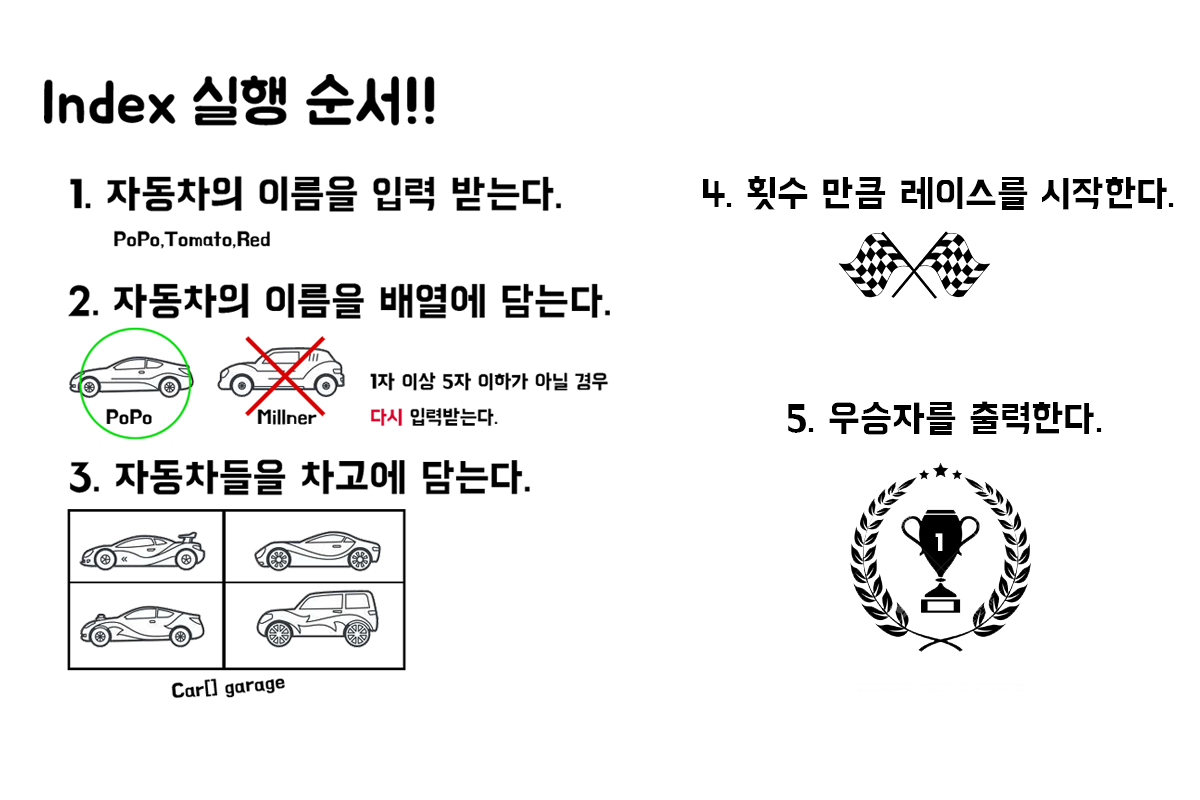
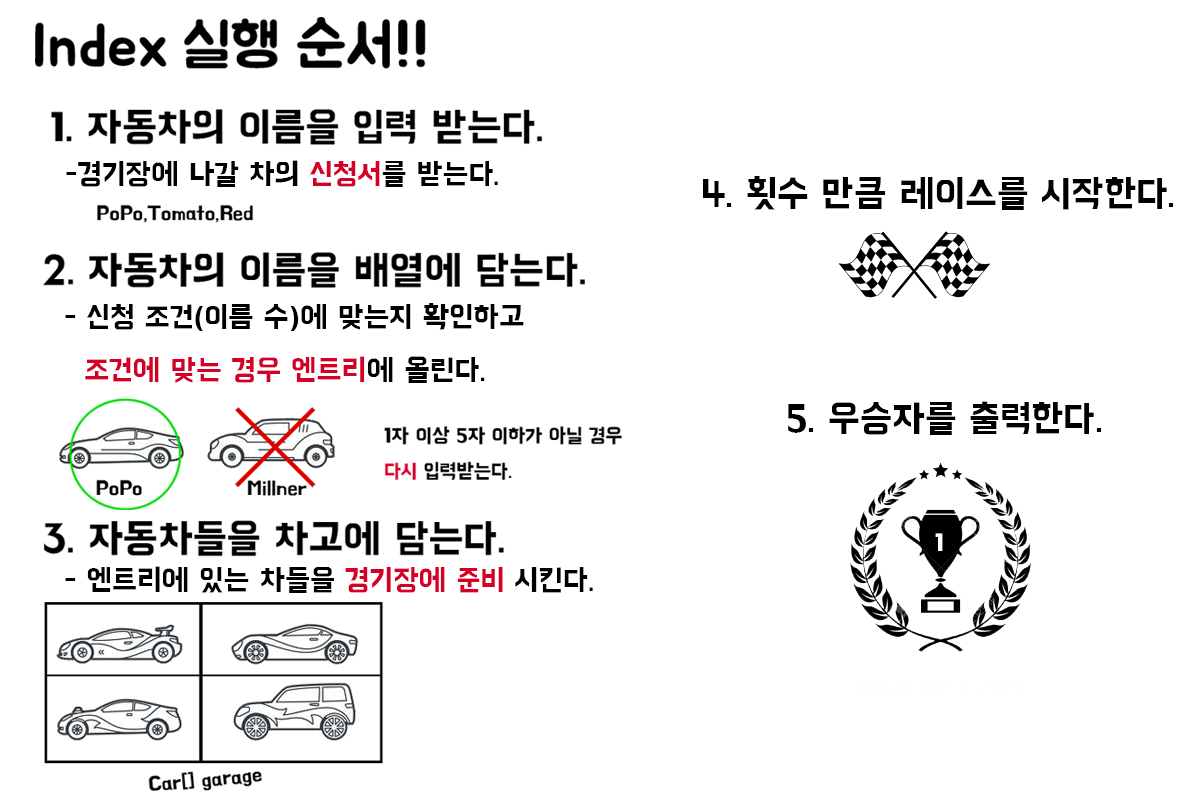
Write Index Remark & Refactoring Config & Update ReadMe

Changed region(s): [[0.0308, 0.0, 0.5242, 1.0]]

diff --git a/src/test/java/ConfigTest.java b/src/test/java/ConfigTest.java
@@ -6,6 +6,7 @@ import org.junit.Test;
 
 import java.util.regex.Pattern;
 
+import static org.junit.Assert.assertArrayEquals;
 import static org.junit.Assert.assertEquals;
 
 public class ConfigTest {
@@ -16,11 +17,10 @@ public class ConfigTest {
         config = new Config();
     }
 
-
     @Test
-    public void makeArrayByStringTest() {
-        String[] result = config.makeArrayByString("Tommi,Pride,Cago");
-        assertEquals(new String[]{"Tommi", "Pride", "Cago"}, result);
+    public void characterMultipleTest() {
+        String result = config.characterMultiple('-', 5);
+        assertEquals("-----", result);
     }
 
     @Test
@@ -34,6 +34,39 @@ public class ConfigTest {
         assertEquals(resultTrue, Boolean.TRUE);
         assertEquals(resultFalse, Boolean.FALSE);
         assertEquals(resultFalseSpace, Boolean.FALSE);
+    }
+
+    @Test
+    public void divideCarNameArrayTest() {
+        String name = "Tom,Tim,Tommy,Tammy,Timon";
+        String[] nameArray = {"Tom", "Tim", "Tommy", "Tammy", "Timon"};
+        String[] result = config.divideCarNameArray(name);
+        assertArrayEquals(nameArray, result);
+        /** 블랭크가 있을시 출력문이 있어 테스트 불가능 */
+//        String nameMiddleBlank = "Tom,,Tommy,Tammy,Timon";
+//        String[] nameArrayMiddleBlank = {"Tom","","Tommy","Tammy","Timon"};
+//        String[] resultMiddleBlank = config.divideCarNameArray(nameMiddleBlank);
+//        assertArrayEquals(nameArrayMiddleBlank,resultMiddleBlank);
+    }
+
+    @Test
+    public void findMaxPositionTest() {
+        Car[] garage = {new Car("Tommi"), new Car("monster")};
+        garage[0].movePosition();
+        garage[0].movePosition();
+        garage[0].movePosition();
+        int result = config.findMaxPosition(garage);
+        assertEquals(3, result);
+    }
+
+    @Test
+    public void makeArrayByStringTest() {
+        String[] trueResult = config.makeArrayByString("Tommi,Pride,Cago");
+        String[] falseResult = config.makeArrayByString("Tommi,Pride,Jimmi");
+        String[] falseResultLength = config.makeArrayByString("Tommi,Pride");
+        assertArrayEquals(new String[]{"Tommi", "Pride", "Cago"}, trueResult);
+//        assertEquals(new String[]{"Tommi", "Pride","Cago"}, falseResult);
+//        assertEquals(new String[]{"Tommi", "Pride","Cago"},falseResultLength);
     }
 
     @Test
@@ -58,13 +91,6 @@ public class ConfigTest {
         assertEquals(false, resultFalse);
     }
 
-    @Test
-    public void raceTest() {
-        Car[] garage = config.makeGarage(new String[]{"Tommi", "Pride", "Cago"});
-        for (int i = 0; i < 5; i++) {
-            config.race(garage);
-        }
-    }
 
     @Test
     public void printWinnerTest() {
@@ -78,12 +104,6 @@ public class ConfigTest {
         garage[1].movePosition();
         String otherResult = config.printWinner(garage);
         assertEquals("Tommi,Pride,Cago", otherResult);
-    }
-
-    @Test
-    public void characterMultipleTest() {
-        String result = config.characterMultiple('-', 5);
-        assertEquals("-----", result);
     }
 
 

diff --git a/src/main/java/domain/Config.java b/src/main/java/domain/Config.java
@@ -56,11 +56,6 @@ public class Config {
         return carsArray;
     }
 
-    public String[] makeArrayByString(String name) {
-        String[] nameArray = name.split(",");
-        return nameArray;
-    }
-
     public String[] divideCarNameArray(String name) {
         String cars = name;
         String[] carsArray = makeArrayByString(cars);
@@ -68,11 +63,29 @@ public class Config {
         return carsArray;
     }
 
+    public Car[] decideMoveForward(Car[] garage) {
+        int random;
+        for (int i = 0; i < garage.length; i++) {
+            random = makeRandom();
+            if (random > 4) {
+                garage[i].movePosition();
+            }
+            printRaceRelay(garage, i);
+        }
+        System.out.println("");
+        return garage;
+    }
+
+    public String[] makeArrayByString(String name) {
+        String[] nameArray = name.split(",");
+        return nameArray;
+    }
+
     /**
      * Garage는 차고로써 Car의 인스턴스들을 담는다.
      *
      * @param carArrays
-     * @return Car인스턴스를 담은 배열
+     * @return garage Car인스턴스를 담은 배열
      */
     public Car[] makeGarage(String[] carArrays) {
         int length = carArrays.length;
@@ -92,8 +105,8 @@ public class Config {
     /**
      * 자동차 레이스 시에 경기 상황을 중계(출력)한다.
      *
-     * @param garage
-     * @param i
+     * @param garage Car를 담은 배열
+     * @param i      garage의 인덱스
      */
     public void printRaceRelay(Car[] garage, int i) {
         String counter = characterMultiple('-', garage[i].getPosition());
@@ -111,19 +124,6 @@ public class Config {
         winner = winner.substring(0, winner.length() - 1);
         System.out.println(winner + "님이 최종 우승하셨습니다!");
         return winner;
-    }
-
-    public Car[] decideMoveForward(Car[] garage) {
-        int random;
-        for (int i = 0; i < garage.length; i++) {
-            random = makeRandom();
-            if (random > 4) {
-                garage[i].movePosition();
-            }
-            printRaceRelay(garage, i);
-        }
-        System.out.println("");
-        return garage;
     }
 
     public void race(Car[] garage) {

diff --git a/src/main/java/service/Index.java b/src/main/java/service/Index.java
@@ -3,12 +3,12 @@ package service;
 import domain.Car;
 import domain.Config;
 
-import java.util.Scanner;
-
+/**
+ * Index : 실제 앱의 동작을 담은 클래스
+ */
 public class Index {
     public static void main(String[] args) {
         Config config = new Config();
-        Scanner scan = new Scanner(System.in);
 
         String carsName = config.inputCarsName();
         String[] carArrays = config.divideCarNameArray(carsName);

diff --git a/README.md b/README.md
@@ -1,11 +1,11 @@
 자동차 경주 게임
 =================
 
-기능 프리뷰
+실행 과정
 ----------------
 ![preview](./img/preview.png "프리뷰")
 
-기능요구
+기능 요구
 ---------
 * 주어진 횟수 동안 n대의 자동차는 전진 또는 멈출 수 있다.
 * 각 자동차에 이름을 부여할 수 있다. 전진하는 자동차를 출력할 때 자동차 이름을 같이 출력한다.
@@ -14,6 +14,13 @@
 * 전진하는 조건은 0에서 9사이에서 random값을 구한후 random 값이 4 이상일 경우 전진하고, 3 이
 하의 값이면 멈춘다.
 * 자동차 경주 게임을 완료한 후 누가 우승했는지를 알려준다. 우승자는 한 명 이상일 수 있다.
+
+용어 설명
+--------------
+* Car - 자동차 (클래스)
+* Garage - 차고 (자동차 객체를 담은 배열) 
+* Relay - 중계 (경기 상황을 출력)
+* race - 경기 (조건에 따른 경기를 진행) 
 
 기능 프리뷰
 -------------
